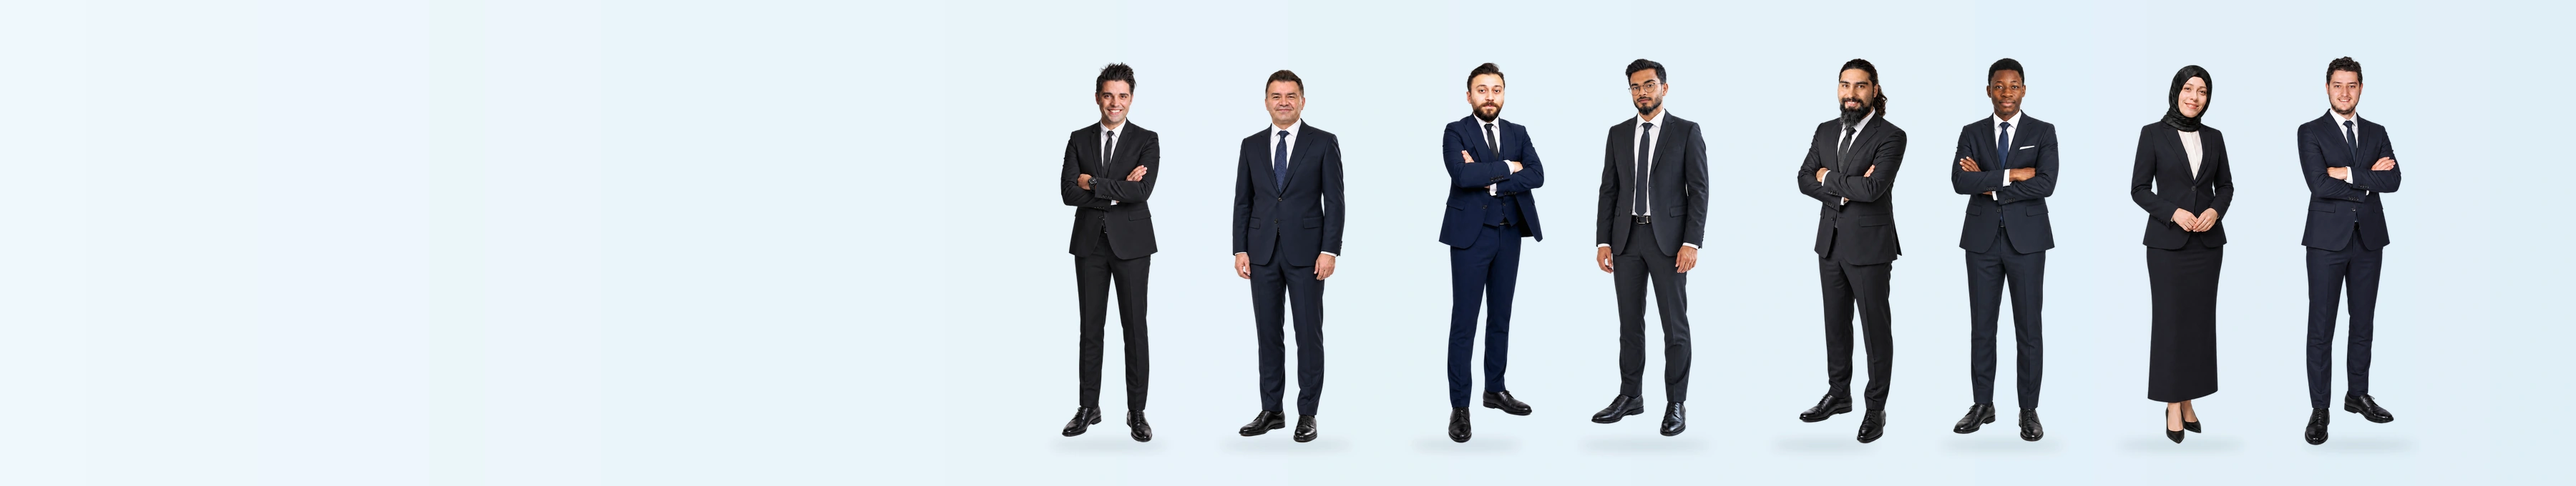
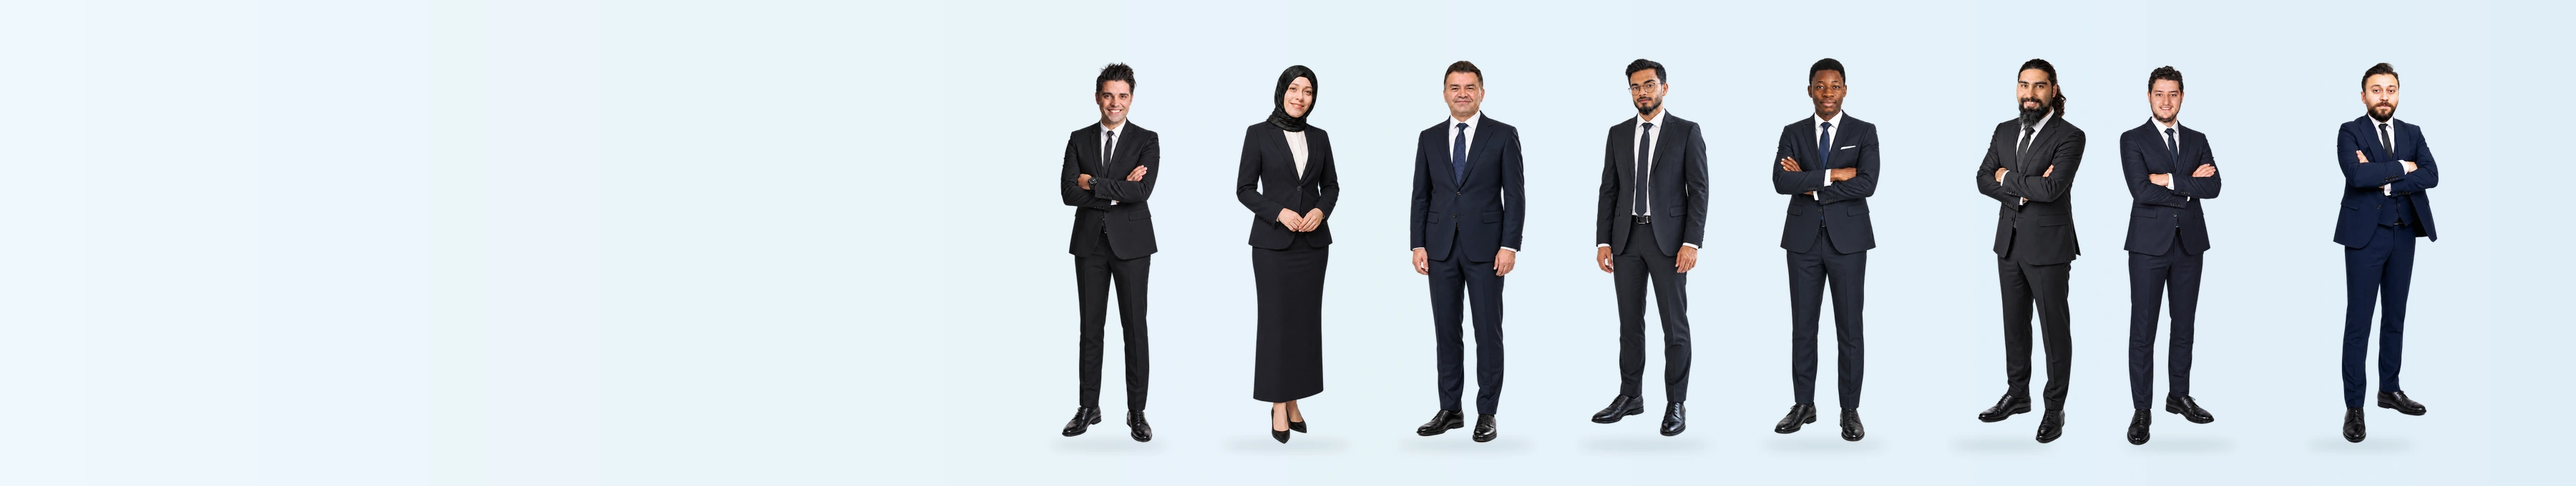
Reorder board members and revise titles

Changed region(s): [[0.6844, 0.1235, 0.9644, 0.9265], [0.4667, 0.1235, 0.6222, 0.9265]]

diff --git a/yonetim-kurulu.html b/yonetim-kurulu.html
@@ -1,1 +1,1 @@
-<!doctype html><html lang="tr"><head><meta charset="UTF-8"><meta name="viewport" content="width=device-width,initial-scale=1"><title>Yönetim Kurulu | NOVA Akademi</title><link rel="preconnect" href="https://fonts.googleapis.com"><link rel="preconnect" href="https://fonts.gstatic.com" crossorigin><link href="https://fonts.googleapis.com/css2?family=Manrope:wght@400;500;600;700;800&display=swap" rel="stylesheet"><link rel="stylesheet" href="nova-header-v2.css?v=20261016-4"><link rel="stylesheet" href="nova-footer.css?v=20261017-1"><link rel="stylesheet" href="yonetim-kurulu.css?v=20261019-2"></head><body><div data-nova-header></div><main><section class="board-hero"><img class="board-hero__image" src="assets/yonetim-kurulu-ekip.webp?v=20261019-2" alt="NOVA Akademi yönetim kurulu üyelerinin ekip fotoğrafı" fetchpriority="high"><div class="board-wrap"><p>ANA SAYFA / KURUMSAL / YÖNETİM KURULU</p><h1>Yönetim<br><em>Kurulu</em></h1><span>NOVA’nın ortak vizyonunu hayata geçiren ekibimiz.</span></div></section><section class="board"><div class="board-wrap"><header><p>EKİBİMİZ</p><h2>Ortak hedeflerle ilerleyen yönetim kurulumuz</h2></header><div class="board-viewport"><div class="board-track" id="board-track"><article class="board-card active" data-member="mehmet"><button><span class="board-name">MEHMET ÖZCAN</span><span class="board-role">Yönetim Kurulu Başkanı</span><span class="portrait"><img src="https://raw.githubusercontent.com/milligenclikmgd/upsd-site/main/assets/yonetim-mehmet-ozcan.png" alt="Mehmet Özcan"></span></button></article><article class="board-card" data-member="yusuf"><button><span class="board-name">YUSUF ERBAŞ</span><span class="board-role">Genel Sekreter</span><span class="portrait"><img src="https://raw.githubusercontent.com/milligenclikmgd/upsd-site/main/assets/yonetim-yusuf-erbas.png" alt="Yusuf Erbaş"></span></button></article><article class="board-card" data-member="volkan"><button><span class="board-name">VOLKAN FATİH YILMAZ</span><span class="board-role">Onursal Başkan ve Uluslararası Projeler Koordinatörü</span><span class="portrait"><img src="https://raw.githubusercontent.com/milligenclikmgd/upsd-site/main/assets/yonetim-volkan-fatih-yilmaz.png" alt="Volkan Fatih Yılmaz"></span></button></article><article class="board-card" data-member="necat"><button><span class="board-name">NECAT KUZU</span><span class="board-role">Ar-Ge Başkanı</span><span class="portrait"><img src="https://raw.githubusercontent.com/milligenclikmgd/upsd-site/main/assets/yonetim-necat-kuzu.png" alt="Necat Kuzu"></span></button></article><article class="board-card" data-member="sidar"><button><span class="board-name">SIDAR ELÇİ</span><span class="board-role">Müzik ve Performans Sanatları Koordinatörü</span><span class="portrait"><img src="https://raw.githubusercontent.com/milligenclikmgd/upsd-site/main/assets/yonetim-sidar-elci.png" alt="Sidar Elçi"></span></button></article><article class="board-card" data-member="faouzane"><button><span class="board-name">FAOUZANE MAMA</span><span class="board-role">Uluslararası Projeler Başkanı</span><span class="portrait"><img src="https://raw.githubusercontent.com/milligenclikmgd/upsd-site/main/assets/yonetim-faouzane-mama.png" alt="Faouzane Mama"></span></button></article><article class="board-card" data-member="hulya"><button><span class="board-name">HÜLYA METİN</span><span class="board-role">Bilimsel Sanatlar ve Kültürel Etkinlikler Başkanı</span><span class="portrait"><img src="assets/yonetim-hulya-metin.png" alt="Hülya Metin"></span></button></article><article class="board-card" data-member="zafer"><button><span class="board-name">ZAFER CAN GÜCÜGÖZ</span><span class="board-role">Basın Yayın ve Kurumsal İletişim Başkanı</span><span class="portrait"><img src="assets/yonetim-zafer-can-gucugoz.png" alt="Zafer Can Gücügöz"></span></button></article></div></div><div class="board-nav"><button id="board-prev" aria-label="Önceki üye">‹</button><button id="board-next" aria-label="Sonraki üye">›</button></div></div></section></main><footer id="iletisim"><img class="footer-logo" src="assets/nova-logo2.png?v=20261011-6" alt="NOVA"><div class="footer-nav-grid" aria-label="Footer menüsü"><div><b>YETENEK SİSTEMİ</b><a href="#degerlendirme">Yetenek Değerlendirmesi</a><a href="#model">Gelişim Aşamaları</a><a href="#sistem">Kabul Süreci</a></div><div><b>EĞİTİM MODELİ</b><a href="#model">NOVA Eğitim Modeli</a><a href="#yolculuk">Öğrenci Yolculuğu</a><a href="#yolculuk">Öğrenci Pasaportu</a></div><div><b>SANAT</b><a href="#sanat">NOVA Sanat Akademisi</a><a href="#sanat">Halk Oyunları</a><a href="#sanat">Dans ve Sahne</a></div><div><b>SPOR</b><a href="#spor">NOVA Spor Akademisi</a><a href="#spor">Branşlar</a><a href="#spor">Sporcu Gelişimi</a></div><div><b>ÖĞRENCİ YOLCULUĞU</b><a href="#yolculuk">Gelişim Planı</a><a href="#yolculuk">Performans Takibi</a><a href="#model">Kariyer Hazırlığı</a></div><div><b>NOVA GLOBAL</b><a href="#global">Uluslararası Projeler</a><a href="#global">İş Birlikleri</a><a href="#seffaflik">Şeffaflık</a></div><div><b>KURUMSAL</b><a href="#kurumsal">NOVA Hakkında</a><a href="#kurumsal">Güven ve Sorumluluk</a><a href="#seffaflik">Şeffaflık Belgeleri</a></div><div><b>İLETİŞİM</b><a href="mailto:info@novaakademi.com">info@novaakademi.com</a><a href="#haberler">Haberler ve Duyurular</a><a href="#ilkeler">Temel İlkelerimiz</a><div class="footer-socials" aria-label="Sosyal medya"><a href="#" aria-label="Instagram"><svg viewBox="0 0 24 24" aria-hidden="true"><rect x="3" y="3" width="18" height="18" rx="5"/><circle cx="12" cy="12" r="4"/><circle cx="17.5" cy="6.5" r="1"/></svg></a><a href="#" aria-label="Facebook"><svg viewBox="0 0 24 24" aria-hidden="true"><path d="M14 21v-8h3l.5-3H14V8.2c0-.9.3-1.7 1.8-1.7H18V3.8c-.6-.1-1.5-.2-2.5-.2-2.6 0-4.4 1.6-4.4 4.5V10H8v3h3.1v8H14Z"/></svg></a><a href="#" aria-label="YouTube"><svg viewBox="0 0 24 24" aria-hidden="true"><path d="M21 12s0-3.2-.4-4.7a2.4 2.4 0 0 0-1.7-1.7C17.4 5.2 12 5.2 12 5.2s-5.4 0-6.9.4a2.4 2.4 0 0 0-1.7 1.7C3 8.8 3 12 3 12s0 3.2.4 4.7a2.4 2.4 0 0 0 1.7 1.7c1.5.4 6.9.4 6.9.4s5.4 0 6.9-.4a2.4 2.4 0 0 0 1.7-1.7c.4-1.5.4-4.7.4-4.7Z"/><path d="m10 15.5 5-3.5-5-3.5v7Z"/></svg></a><a href="#" aria-label="X"><svg viewBox="0 0 24 24" aria-hidden="true"><path d="M4 4l6.2 8.3L4.4 20h2.3l4.5-5.9 4.4 5.9H20l-6.6-8.8L18.8 4h-2.3l-4.1 5.4L8.3 4H4Zm3.7 1.7h1.7l6.8 9.1h-1.7L7.7 5.7Z"/></svg></a></div></div></div><div class="footer-bottom"><small>© 2026 NOVA Sanat ve Spor Kulübü. Tüm hakları saklıdır.</small><span class="kriter-media"><span>Dijital Çözüm Ortağı</span><img src="assets/kriter-medya-white.png?v=20261017-1" alt="Kriter Medya"></span></div></footer><div class="bio-backdrop" id="bio-backdrop"></div><aside class="bio-panel" id="bio-panel" aria-hidden="true"><button class="bio-close" type="button" aria-label="Kapat">×</button><div id="bio-content"></div></aside><script src="nova-header.js?v=20261017-1"></script><script src="yonetim-kurulu.js?v=20261019-1"></script></body></html>
+<!doctype html><html lang="tr"><head><meta charset="UTF-8"><meta name="viewport" content="width=device-width,initial-scale=1"><title>Yönetim Kurulu | NOVA Akademi</title><link rel="preconnect" href="https://fonts.googleapis.com"><link rel="preconnect" href="https://fonts.gstatic.com" crossorigin><link href="https://fonts.googleapis.com/css2?family=Manrope:wght@400;500;600;700;800&display=swap" rel="stylesheet"><link rel="stylesheet" href="nova-header-v2.css?v=20261016-4"><link rel="stylesheet" href="nova-footer.css?v=20261017-1"><link rel="stylesheet" href="yonetim-kurulu.css?v=20261019-3"></head><body><div data-nova-header></div><main><section class="board-hero"><img class="board-hero__image" src="assets/yonetim-kurulu-ekip.webp?v=20261019-3" alt="NOVA Akademi yönetim kurulu üyelerinin ekip fotoğrafı" fetchpriority="high"><div class="board-wrap"><p>ANA SAYFA / KURUMSAL / YÖNETİM KURULU</p><h1>Yönetim<br><em>Kurulu</em></h1><span>NOVA’nın ortak vizyonunu hayata geçiren ekibimiz.</span></div></section><section class="board"><div class="board-wrap"><header><p>EKİBİMİZ</p><h2>Ortak hedeflerle ilerleyen yönetim kurulumuz</h2></header><div class="board-viewport"><div class="board-track" id="board-track"><article class="board-card active" data-member="mehmet"><button><span class="board-name">MEHMET ÖZCAN</span><span class="board-role">Yönetim Kurulu Başkanı</span><span class="portrait"><img src="https://raw.githubusercontent.com/milligenclikmgd/upsd-site/main/assets/yonetim-mehmet-ozcan.png" alt="Mehmet Özcan"></span></button></article><article class="board-card" data-member="hulya"><button><span class="board-name">HÜLYA METİN</span><span class="board-role">Bilimsel Sanatlar ve Kültürel Etkinlikler Başkanı</span><span class="portrait"><img src="assets/yonetim-hulya-metin.png" alt="Hülya Metin"></span></button></article><article class="board-card" data-member="yusuf"><button><span class="board-name">YUSUF ERBAŞ</span><span class="board-role">Genel Sekreter</span><span class="portrait"><img src="https://raw.githubusercontent.com/milligenclikmgd/upsd-site/main/assets/yonetim-yusuf-erbas.png" alt="Yusuf Erbaş"></span></button></article><article class="board-card" data-member="necat"><button><span class="board-name">NECAT KUZU</span><span class="board-role">Ar-Ge Başkanı</span><span class="portrait"><img src="https://raw.githubusercontent.com/milligenclikmgd/upsd-site/main/assets/yonetim-necat-kuzu.png" alt="Necat Kuzu"></span></button></article><article class="board-card" data-member="faouzane"><button><span class="board-name">FAOUZANE MAMA</span><span class="board-role">Uluslararası Projeler Başkanı</span><span class="portrait"><img src="https://raw.githubusercontent.com/milligenclikmgd/upsd-site/main/assets/yonetim-faouzane-mama.png" alt="Faouzane Mama"></span></button></article><article class="board-card" data-member="sidar"><button><span class="board-name">SIDAR ELÇİ</span><span class="board-role">Müzik ve Performans Sanatları Koordinatörü</span><span class="portrait"><img src="https://raw.githubusercontent.com/milligenclikmgd/upsd-site/main/assets/yonetim-sidar-elci.png" alt="Sidar Elçi"></span></button></article><article class="board-card" data-member="zafer"><button><span class="board-name">ZAFER CAN GÜCÜGÖZ</span><span class="board-role">Basın Yayın ve Kurumsal İletişim Koordinatörü</span><span class="portrait"><img src="assets/yonetim-zafer-can-gucugoz.png" alt="Zafer Can Gücügöz"></span></button></article><article class="board-card" data-member="volkan"><button><span class="board-name">VOLKAN FATİH YILMAZ</span><span class="board-role">Uluslararası Projeler Koordinatörü</span><span class="portrait"><img src="https://raw.githubusercontent.com/milligenclikmgd/upsd-site/main/assets/yonetim-volkan-fatih-yilmaz.png" alt="Volkan Fatih Yılmaz"></span></button></article></div></div><div class="board-nav"><button id="board-prev" aria-label="Önceki üye">‹</button><button id="board-next" aria-label="Sonraki üye">›</button></div></div></section></main><footer id="iletisim"><img class="footer-logo" src="assets/nova-logo2.png?v=20261011-6" alt="NOVA"><div class="footer-nav-grid" aria-label="Footer menüsü"><div><b>YETENEK SİSTEMİ</b><a href="#degerlendirme">Yetenek Değerlendirmesi</a><a href="#model">Gelişim Aşamaları</a><a href="#sistem">Kabul Süreci</a></div><div><b>EĞİTİM MODELİ</b><a href="#model">NOVA Eğitim Modeli</a><a href="#yolculuk">Öğrenci Yolculuğu</a><a href="#yolculuk">Öğrenci Pasaportu</a></div><div><b>SANAT</b><a href="#sanat">NOVA Sanat Akademisi</a><a href="#sanat">Halk Oyunları</a><a href="#sanat">Dans ve Sahne</a></div><div><b>SPOR</b><a href="#spor">NOVA Spor Akademisi</a><a href="#spor">Branşlar</a><a href="#spor">Sporcu Gelişimi</a></div><div><b>ÖĞRENCİ YOLCULUĞU</b><a href="#yolculuk">Gelişim Planı</a><a href="#yolculuk">Performans Takibi</a><a href="#model">Kariyer Hazırlığı</a></div><div><b>NOVA GLOBAL</b><a href="#global">Uluslararası Projeler</a><a href="#global">İş Birlikleri</a><a href="#seffaflik">Şeffaflık</a></div><div><b>KURUMSAL</b><a href="#kurumsal">NOVA Hakkında</a><a href="#kurumsal">Güven ve Sorumluluk</a><a href="#seffaflik">Şeffaflık Belgeleri</a></div><div><b>İLETİŞİM</b><a href="mailto:info@novaakademi.com">info@novaakademi.com</a><a href="#haberler">Haberler ve Duyurular</a><a href="#ilkeler">Temel İlkelerimiz</a><div class="footer-socials" aria-label="Sosyal medya"><a href="#" aria-label="Instagram"><svg viewBox="0 0 24 24" aria-hidden="true"><rect x="3" y="3" width="18" height="18" rx="5"/><circle cx="12" cy="12" r="4"/><circle cx="17.5" cy="6.5" r="1"/></svg></a><a href="#" aria-label="Facebook"><svg viewBox="0 0 24 24" aria-hidden="true"><path d="M14 21v-8h3l.5-3H14V8.2c0-.9.3-1.7 1.8-1.7H18V3.8c-.6-.1-1.5-.2-2.5-.2-2.6 0-4.4 1.6-4.4 4.5V10H8v3h3.1v8H14Z"/></svg></a><a href="#" aria-label="YouTube"><svg viewBox="0 0 24 24" aria-hidden="true"><path d="M21 12s0-3.2-.4-4.7a2.4 2.4 0 0 0-1.7-1.7C17.4 5.2 12 5.2 12 5.2s-5.4 0-6.9.4a2.4 2.4 0 0 0-1.7 1.7C3 8.8 3 12 3 12s0 3.2.4 4.7a2.4 2.4 0 0 0 1.7 1.7c1.5.4 6.9.4 6.9.4s5.4 0 6.9-.4a2.4 2.4 0 0 0 1.7-1.7c.4-1.5.4-4.7.4-4.7Z"/><path d="m10 15.5 5-3.5-5-3.5v7Z"/></svg></a><a href="#" aria-label="X"><svg viewBox="0 0 24 24" aria-hidden="true"><path d="M4 4l6.2 8.3L4.4 20h2.3l4.5-5.9 4.4 5.9H20l-6.6-8.8L18.8 4h-2.3l-4.1 5.4L8.3 4H4Zm3.7 1.7h1.7l6.8 9.1h-1.7L7.7 5.7Z"/></svg></a></div></div></div><div class="footer-bottom"><small>© 2026 NOVA Sanat ve Spor Kulübü. Tüm hakları saklıdır.</small><span class="kriter-media"><span>Dijital Çözüm Ortağı</span><img src="assets/kriter-medya-white.png?v=20261017-1" alt="Kriter Medya"></span></div></footer><div class="bio-backdrop" id="bio-backdrop"></div><aside class="bio-panel" id="bio-panel" aria-hidden="true"><button class="bio-close" type="button" aria-label="Kapat">×</button><div id="bio-content"></div></aside><script src="nova-header.js?v=20261017-1"></script><script src="yonetim-kurulu.js?v=20261019-1"></script></body></html>

diff --git a/yonetim-kurulu.js b/yonetim-kurulu.js
@@ -1,1 +1,1 @@
-const img='https://raw.githubusercontent.com/milligenclikmgd/upsd-site/main/assets/';const boardMembers={mehmet:{name:'Mehmet Özcan',role:'Yönetim Kurulu Başkanı',image:img+'yonetim-mehmet-ozcan.png',bio:'UPSD’nin kurumsal gelişim vizyonuna liderlik eder. Eğitim, sanat ve sporun dönüştürücü gücünü sürdürülebilir projelerle gençlerle buluşturmak için çalışır.'},yusuf:{name:'Yusuf Erbaş',role:'Genel Sekreter',image:img+'yonetim-yusuf-erbas.png',bio:'Derneğin operasyonel süreçlerinin koordinasyonunu yürütür; proje, iletişim ve paydaş yönetiminde ortak hedeflere katkı sağlar.'},volkan:{name:'Volkan Fatih Yılmaz',role:'Onursal Başkan ve Uluslararası Projeler Koordinatörü',image:img+'yonetim-volkan-fatih-yilmaz.png',bio:'Uluslararası iş birlikleri ve kültürlerarası gelişim projelerinde temsil gücünü ve etkiyi artırmaya odaklanır.'},necat:{name:'Necat Kuzu',role:'Ar-Ge Başkanı',image:img+'yonetim-necat-kuzu.png',bio:'Araştırma, geliştirme ve yenilikçi proje süreçlerinde kurumsal bilgi birikimine katkı sunar.'},sidar:{name:'Sidar Elçi',role:'Müzik ve Performans Sanatları Koordinatörü',image:img+'yonetim-sidar-elci.png',bio:'Müzik ve performans sanatları alanındaki çalışmaların geliştirilmesi ve koordinasyonuna katkı sunar.'},faouzane:{name:'Faouzane Mama',role:'Uluslararası Projeler Başkanı',image:img+'yonetim-faouzane-mama.png',bio:'Uluslararası proje geliştirme, iş birlikleri ve kurumlar arası koordinasyon süreçlerine liderlik eder.'},hulya:{name:'Hülya Metin',role:'Bilimsel Sanatlar ve Kültürel Etkinlikler Başkanı',image:'assets/yonetim-hulya-metin.png',bio:'Bilimsel sanatlar ve kültürel etkinlikler alanındaki programların geliştirilmesine ve koordinasyonuna liderlik eder.'},zafer:{name:'Zafer Can Gücügöz',role:'Basın Yayın ve Kurumsal İletişim Başkanı',image:'assets/yonetim-zafer-can-gucugoz.png',bio:'Basın, yayın ve kurumsal iletişim çalışmalarını; kurumun faaliyet ve projelerinin tutarlı biçimde duyurulmasını koordine eder.'}};const cards=[...document.querySelectorAll('.board-card')],track=document.querySelector('#board-track'),panel=document.querySelector('#bio-panel'),backdrop=document.querySelector('#bio-backdrop'),content=document.querySelector('#bio-content');let index=0;function position(i,focus=false){index=Math.max(0,Math.min(i,cards.length-1));const w=cards[0].getBoundingClientRect().width;const center=innerWidth*(focus?(innerWidth<=600?.22:innerWidth<=900?.23:.26):.5);track.style.transform='translateX('+(center-w/2-index*w)+'px)';cards.forEach((card,n)=>{card.classList.toggle('active',n===index);card.classList.toggle('bio-active',focus&&n===index)})}function open(key){const m=boardMembers[key];content.innerHTML='<h2 class="bio-name">'+m.name+'</h2><p class="bio-role">'+m.role+'</p><section class="bio-cv"><h3>CV</h3><p>'+m.bio+'</p></section>';panel.classList.add('show');backdrop.classList.add('show');panel.setAttribute('aria-hidden','false')}function close(){panel.classList.remove('show');backdrop.classList.remove('show');panel.setAttribute('aria-hidden','true');position(index,false)}cards.forEach((card,i)=>card.querySelector('button').addEventListener('click',()=>{position(i,true);open(card.dataset.member)}));document.querySelector('#board-prev').onclick=()=>position(index-1);document.querySelector('#board-next').onclick=()=>position(index+1);document.querySelector('.bio-close').onclick=close;backdrop.onclick=close;addEventListener('resize',()=>position(index,panel.classList.contains('show')));addEventListener('keydown',e=>{if(e.key==='Escape')close()});position(0);
+const img='https://raw.githubusercontent.com/milligenclikmgd/upsd-site/main/assets/';const boardMembers={mehmet:{name:'Mehmet Özcan',role:'Yönetim Kurulu Başkanı',image:img+'yonetim-mehmet-ozcan.png',bio:'UPSD’nin kurumsal gelişim vizyonuna liderlik eder. Eğitim, sanat ve sporun dönüştürücü gücünü sürdürülebilir projelerle gençlerle buluşturmak için çalışır.'},yusuf:{name:'Yusuf Erbaş',role:'Genel Sekreter',image:img+'yonetim-yusuf-erbas.png',bio:'Derneğin operasyonel süreçlerinin koordinasyonunu yürütür; proje, iletişim ve paydaş yönetiminde ortak hedeflere katkı sağlar.'},volkan:{name:'Volkan Fatih Yılmaz',role:'Uluslararası Projeler Koordinatörü',image:img+'yonetim-volkan-fatih-yilmaz.png',bio:'Uluslararası iş birlikleri ve kültürlerarası gelişim projelerinde temsil gücünü ve etkiyi artırmaya odaklanır.'},necat:{name:'Necat Kuzu',role:'Ar-Ge Başkanı',image:img+'yonetim-necat-kuzu.png',bio:'Araştırma, geliştirme ve yenilikçi proje süreçlerinde kurumsal bilgi birikimine katkı sunar.'},sidar:{name:'Sidar Elçi',role:'Müzik ve Performans Sanatları Koordinatörü',image:img+'yonetim-sidar-elci.png',bio:'Müzik ve performans sanatları alanındaki çalışmaların geliştirilmesi ve koordinasyonuna katkı sunar.'},faouzane:{name:'Faouzane Mama',role:'Uluslararası Projeler Başkanı',image:img+'yonetim-faouzane-mama.png',bio:'Uluslararası proje geliştirme, iş birlikleri ve kurumlar arası koordinasyon süreçlerine liderlik eder.'},hulya:{name:'Hülya Metin',role:'Bilimsel Sanatlar ve Kültürel Etkinlikler Başkanı',image:'assets/yonetim-hulya-metin.png',bio:'Bilimsel sanatlar ve kültürel etkinlikler alanındaki programların geliştirilmesine ve koordinasyonuna liderlik eder.'},zafer:{name:'Zafer Can Gücügöz',role:'Basın Yayın ve Kurumsal İletişim Koordinatörü',image:'assets/yonetim-zafer-can-gucugoz.png',bio:'Basın, yayın ve kurumsal iletişim çalışmalarını; kurumun faaliyet ve projelerinin tutarlı biçimde duyurulmasını koordine eder.'}};const cards=[...document.querySelectorAll('.board-card')],track=document.querySelector('#board-track'),panel=document.querySelector('#bio-panel'),backdrop=document.querySelector('#bio-backdrop'),content=document.querySelector('#bio-content');let index=0;function position(i,focus=false){index=Math.max(0,Math.min(i,cards.length-1));const w=cards[0].getBoundingClientRect().width;const center=innerWidth*(focus?(innerWidth<=600?.22:innerWidth<=900?.23:.26):.5);track.style.transform='translateX('+(center-w/2-index*w)+'px)';cards.forEach((card,n)=>{card.classList.toggle('active',n===index);card.classList.toggle('bio-active',focus&&n===index)})}function open(key){const m=boardMembers[key];content.innerHTML='<h2 class="bio-name">'+m.name+'</h2><p class="bio-role">'+m.role+'</p><section class="bio-cv"><h3>CV</h3><p>'+m.bio+'</p></section>';panel.classList.add('show');backdrop.classList.add('show');panel.setAttribute('aria-hidden','false')}function close(){panel.classList.remove('show');backdrop.classList.remove('show');panel.setAttribute('aria-hidden','true');position(index,false)}cards.forEach((card,i)=>card.querySelector('button').addEventListener('click',()=>{position(i,true);open(card.dataset.member)}));document.querySelector('#board-prev').onclick=()=>position(index-1);document.querySelector('#board-next').onclick=()=>position(index+1);document.querySelector('.bio-close').onclick=close;backdrop.onclick=close;addEventListener('resize',()=>position(index,panel.classList.contains('show')));addEventListener('keydown',e=>{if(e.key==='Escape')close()});position(0);
